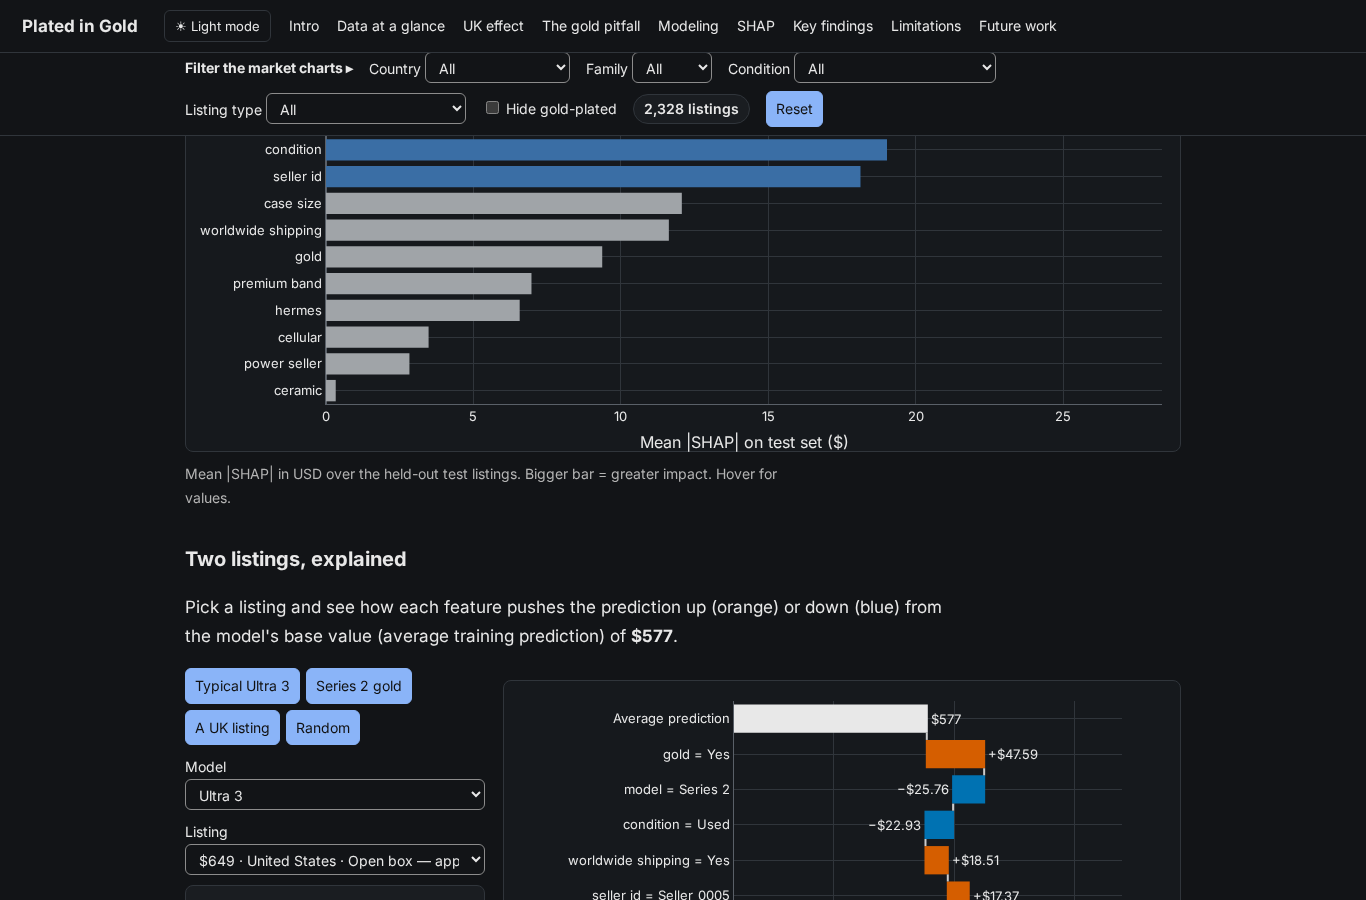
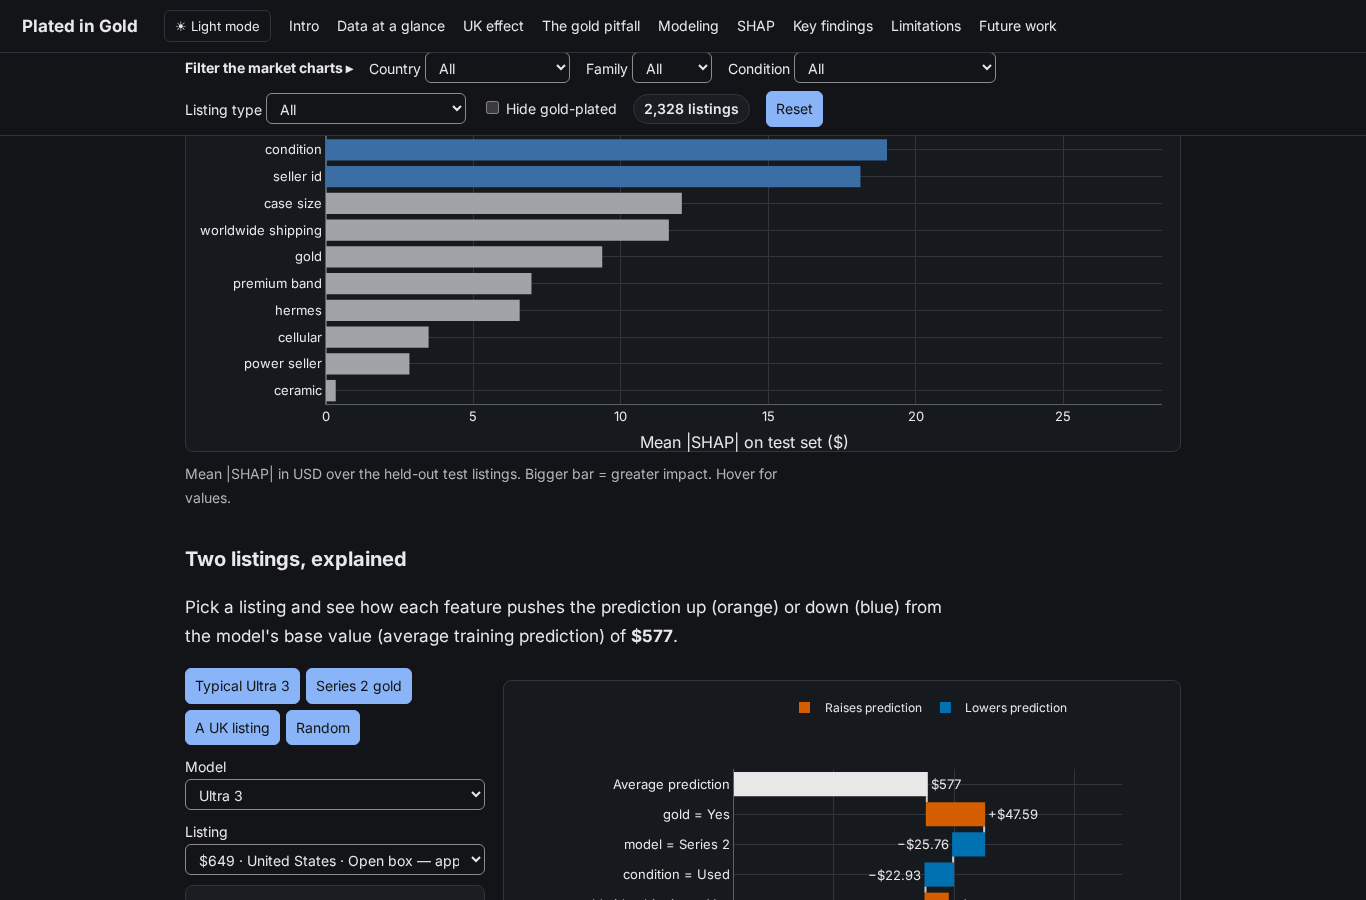
Move SHAP waterfall Raises/Lowers legend clear of the prediction
Place the legend above the axes in the static figures and the
interactive app so it no longer covers the final prediction line
or bottom bars (light and dark).

Changed region(s): [[0.4305, 0.7778, 0.7994, 1.0]]

diff --git a/app/app.js b/app/app.js
@@ -137,11 +137,21 @@ function showListing(r) {
   r = r || L[+$('eList').value]; if (!r) return; lastListing = r;
   const vals = {condition: r.c, case_size: r.s ? r.s + 'mm' : 'missing', cellular: r.cel ? 'Yes' : 'No', hermes: r.h ? 'Yes' : 'No', worldwide_shipping: r.w ? 'Yes' : 'No', country: r.k, model: r.m, gold: r.g ? 'Yes' : 'No', hermes: r.h ? 'Yes' : 'No', power_seller: r.ps ? 'Yes' : 'No', seller_id: r.sid};
   const o = F.map((f, i) => ({f, v: r.shap[i]})).sort((a, b) => Math.abs(b.v) - Math.abs(a.v));
-  Plotly.react('waterfall', [{type: 'waterfall', orientation: 'h', measure: ['absolute', ...o.map(() => 'relative'), 'total'],
-    y: ['Average prediction', ...o.map(d => `${label(d.f)} = ${vals[d.f] ?? ''}`), 'Predicted price'], x: [D.base, ...o.map(d => d.v), r.pred],
-    text: [fmt(D.base), ...o.map(d => (d.v >= 0 ? '+' : '−') + '$' + Math.abs(d.v).toFixed(2)), fmt(r.pred)], textposition: 'outside',
-    increasing: {marker: {color: POS}}, decreasing: {marker: {color: NEG}}, totals: {marker: {color: INK}}, connector: {line: {color: '#ccc'}}, hovertemplate: '%{y}: %{text}<extra></extra>'}],
-    lay({margin: {l: 230, r: 60, t: 20, b: 40}, yaxis: {autorange: 'reversed'}, xaxis: {tickprefix: '$', range: [Math.min(D.base, r.pred) - 160, Math.max(D.base, r.pred) + 160]}}), cfg);
+  Plotly.react('waterfall', [
+    {type: 'waterfall', orientation: 'h', measure: ['absolute', ...o.map(() => 'relative'), 'total'],
+      y: ['Average prediction', ...o.map(d => `${label(d.f)} = ${vals[d.f] ?? ''}`), 'Predicted price'], x: [D.base, ...o.map(d => d.v), r.pred],
+      text: [fmt(D.base), ...o.map(d => (d.v >= 0 ? '+' : '−') + '$' + Math.abs(d.v).toFixed(2)), fmt(r.pred)], textposition: 'outside',
+      increasing: {marker: {color: POS}}, decreasing: {marker: {color: NEG}}, totals: {marker: {color: INK}},
+      connector: {line: {color: '#ccc'}}, hovertemplate: '%{y}: %{text}<extra></extra>', showlegend: false},
+    // Dummy traces so the legend can say Raises / Lowers (waterfall only exposes a useless "trace 0" entry)
+    {type: 'scatter', x: [null], y: [null], mode: 'markers', marker: {symbol: 'square', size: 11, color: POS},
+      name: 'Raises prediction', hoverinfo: 'skip', showlegend: true},
+    {type: 'scatter', x: [null], y: [null], mode: 'markers', marker: {symbol: 'square', size: 11, color: NEG},
+      name: 'Lowers prediction', hoverinfo: 'skip', showlegend: true}],
+    lay({margin: {l: 230, r: 60, t: 56, b: 40}, yaxis: {autorange: 'reversed'},
+      xaxis: {tickprefix: '$', range: [Math.min(D.base, r.pred) - 160, Math.max(D.base, r.pred) + 160]},
+      showlegend: true,
+      legend: {orientation: 'h', x: 0.5, xanchor: 'center', y: 1.12, yanchor: 'bottom', font: {size: 12}, bgcolor: 'rgba(0,0,0,0)'}}), cfg);
   $('eInfo').innerHTML = `<b>${r.t}</b><br>${r.synth ? 'Hypothetical listing' : 'List price <b>' + fmt(r.p) + '</b>'} · model predicts <b>${fmt(r.pred)}</b><br>${r.k} · ${r.c} · seller ${r.sid}${r.te ? ' · <i>held-out test listing</i>' : ''}`;
 }
 $('eModel').onchange = () => fillList(); $('eList').onchange = showListing;

diff --git a/src/visualization.py b/src/visualization.py
@@ -943,8 +943,10 @@ def fig_waterfall(shap_row, labels, base, title, path=None):
     ax.set_xlabel(f'Predicted list price ($): base \\${base:,.0f} → prediction \\${x:,.0f}')
     ax.xaxis.set_major_formatter(lambda t, _: f'${t:,.0f}')
     from matplotlib.patches import Patch as _P
-    ax.legend(handles=[_P(color=POS, label='Raises prediction'), _P(color=NEG, label='Lowers prediction')], loc='lower right')
-    ax.set_title(title)
+    # Legend above the axes (under the title) so it never covers bars, prediction line, or xlabel
+    ax.legend(handles=[_P(color=POS, label='Raises prediction'), _P(color=NEG, label='Lowers prediction')],
+              loc='lower center', bbox_to_anchor=(0.5, 1.04), ncol=2, fontsize=10, frameon=False)
+    ax.set_title(title, pad=34)
     return _save(fig, path)
 
 
